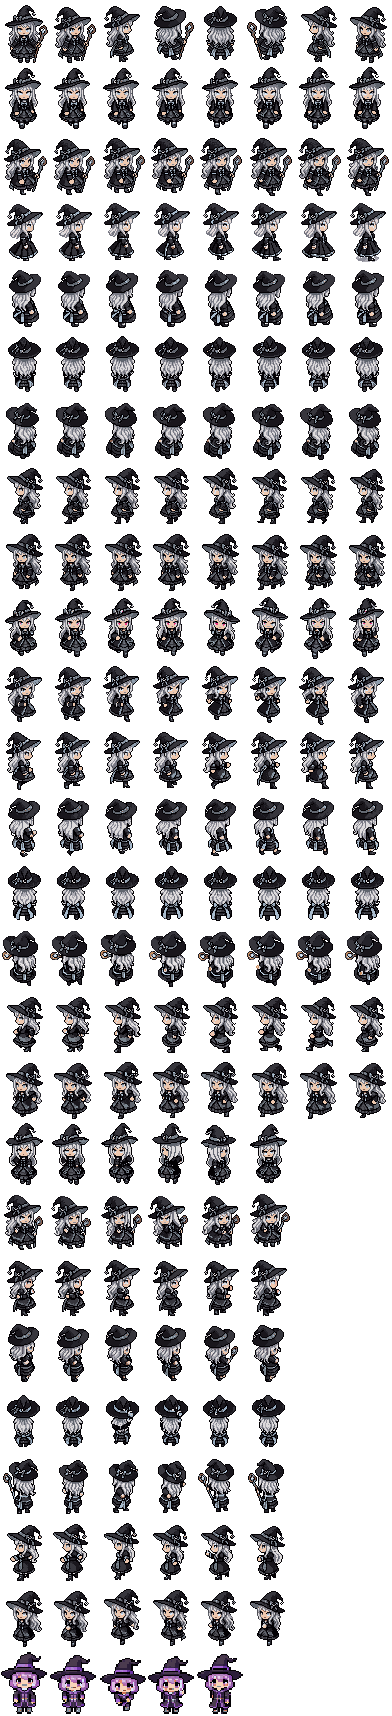
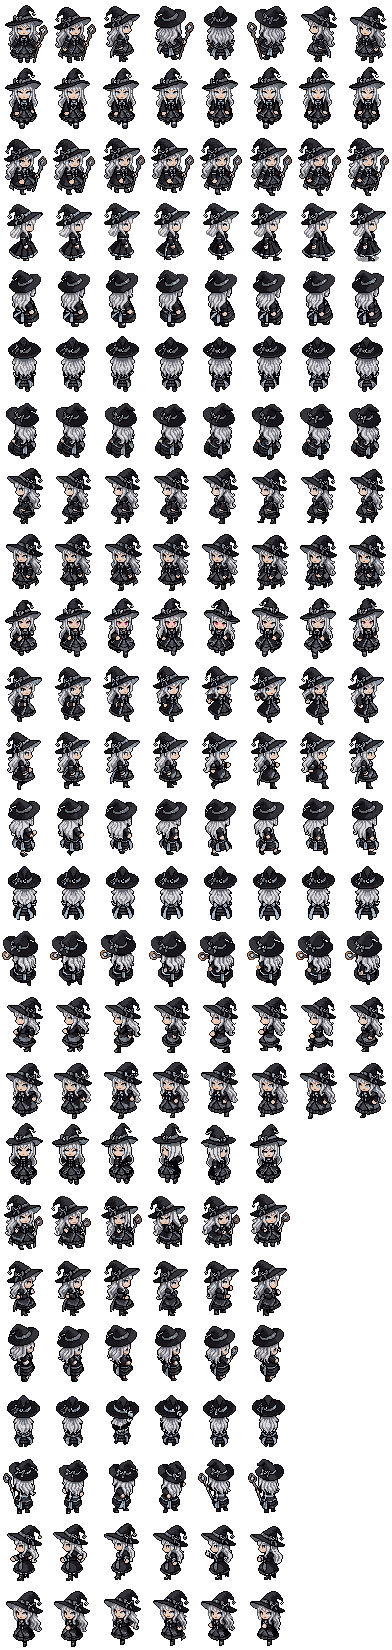
Use the eight-way action frames for gathering too
Folder (4) has no picking-up animation, only the fireball set, so gathering,
harvesting and planting borrow it the way watering already does. That empties
the last row of the previous witch out of the sheet -- it is 8 x 25 cells now,
all of it the current character.

tools/legacy_pose.png stays as the only surviving copy of her cast and crouch
frames; nothing reads it any more, so the extractor that produced it is gone.

diff --git a/assets/scripts/GatherTree.ts b/assets/scripts/GatherTree.ts
@@ -105,13 +105,15 @@ export class GatherTree extends Component {
 
     // ---- 採集特效 ----
 
-    /** 女巫彎腰採集 + 樹搖晃 + 星星 + 材料飄出來。 */
+    /** 女巫伸手採集 + 樹搖晃 + 星星 + 材料飄出來。 */
     private playFx(item: string, qty: number) {
-        // 女巫：彎腰伸手 → 捏起 → 起身舉起（面向這棵樹）
+        // 女巫：轉向這棵樹伸手（新圖八個方向都有；舊圖只有正面，靠 dirX 翻面）
         const anim = this.player?.getComponent(CharacterAnimator);
         if (anim) {
             const dirX = this.node.position.x - (this.player?.position.x ?? 0);
-            anim.playOneShot(GameArt.gatherFrames(), 0.9, dirX);
+            const dirY = this.node.position.y - (this.player?.position.y ?? 0);
+            const dir = CharacterAnimator.dirOf(dirX, dirY);
+            anim.playOneShot(GameArt.gatherFrames(dir), 0.9, dirX, false, dir);
         }
         // 樹：以樹根為軸左右擺（錨點是 (0.5,0)）
         tween(this.node)

diff --git a/assets/scripts/GardenRoom.ts b/assets/scripts/GardenRoom.ts
@@ -150,7 +150,8 @@ export class GardenRoom extends Component {
             if (got) {
                 Inventory.ensure()?.add(got.name, got.count);
                 Quests.record('gather', got.name, got.count);
-                anim?.playOneShot(GameArt.pickFrames(), 0.9, faceX, true);
+                const dir = this.dirTo(plot);
+                anim?.playOneShot(GameArt.pickFrames(dir), 0.9, faceX, true, dir);
                 plot.popup(`＋${got.name} ×${got.count}`);
             }
         } else {
@@ -192,7 +193,8 @@ export class GardenRoom extends Component {
         }
         const anim = this.player?.getComponent(CharacterAnimator);
         const faceX = this.player ? plot.node.position.x - this.player.position.x : 0;
-        anim?.playOneShot(GameArt.pickFrames(), 0.7, faceX, true);
+        const dir = this.dirTo(plot);
+        anim?.playOneShot(GameArt.pickFrames(dir), 0.7, faceX, true, dir);
         plot.popup(`種下 ${seed}`);
         plot.refresh();
     }

diff --git a/assets/scripts/data/outfits.ts b/assets/scripts/data/outfits.ts
@@ -1,7 +1,7 @@
 /**
  * 造型（換裝）「內容」資料。
  *
- * 一套造型 ＝ 一整張女巫圖集 `resources/witch8/<art>.png`（站姿/走路/施法/蹲下）
+ * 一套造型 ＝ 一整張女巫圖集 `resources/witch8/<art>.png`（站姿/走路/跑步/施法）
  * ＋ 一張 `<art>-sleep.png`。**不是把衣服疊成圖層** —— 帽子與披風本身就是角色輪廓，
  * 而且只有幾套完整造型，分層那種「多部位排列組合」的好處用不到。
  * 三套的圖是 tools/export_witch8.py 從預設那張改色生出來的（可重跑）。

diff --git a/assets/scripts/UpdatePanel.ts b/assets/scripts/UpdatePanel.ts
@@ -20,7 +20,7 @@ const UPDATE_DATE = '2026 / 08 / 07';
 /** 這次更新的內容，一行一條。 */
 const UPDATE_LINES = [
     '· 女巫換了新的人：黑袍緋紅緞邊、銀髮紅眼',
-    '· 按住 Shift 衝刺，跑步與施法澆水都有八個方向',
+    '· 按住 Shift 衝刺；跑步與採集施法等動作都有八個方向',
     '· 衣櫃四套改成緞邊配色：緋紅／苔綠／琥珀／霜白',
 ];
 

diff --git a/tools/export_witch8.py b/tools/export_witch8.py
@@ -11,21 +11,23 @@
   art-src/witch-v2/walk/rotations                 8 方向站姿
   art-src/witch-v2/walk/animations/Walking/<dir>  走路 8 方向 ×8 幀
   art-src/witch-v2/run/animations/Running/<dir>   跑步 8 方向 ×8 幀
-  art-src/witch-v2/cast/animations/Fireball/<dir> 施法 8 方向 ×6 幀（澆水也用這組）
-  tools/legacy_pose.png                           前一位女巫的蹲下 5 幀
-                                                  （新圖還沒做，先頂著；見下面 LEGACY 那段）
+  art-src/witch-v2/cast/animations/Fireball/<dir> 施法 8 方向 ×6 幀
+                                                  （**澆水／採集／摘花／種花全部共用這組** ——
+                                                    新角色沒有蹲下的圖，使用者指定就用這組）
 
 ⚠ 同一組動畫有時會匯出兩份方向（PixelLab 的重生成）：跑步的 north 取 `north-71d078af`
    （`north-f030d599` 整組是疊影壞圖）、施法的 north-west 取 `north-west-969deef6`
    （`north-west-fe5a5dbc` 每幀的帽子與身體都在跳）。
 
 輸出（resources/witch8/）
-  base.png    8 欄 × 26 列，格子大小一致：
+  base.png    8 欄 × 25 列，格子大小一致：
                 列 0       = 站姿，欄＝方向（south, SE, E, NE, N, NW, W, SW）
                 列 1..8    = 走路，列 1+d ＝方向 d，欄＝幀
                 列 9..16   = 跑步，列 9+d ＝方向 d，欄＝幀
                 列 17..24  = 施法，列 17+d ＝方向 d，欄＝幀（0..5）
-                列 25      = 蹲下 5 幀（欄 0..4）  ← 還是前一位女巫
+
+  `tools/legacy_pose.png` 是前一位（紫袍）女巫的施法＋蹲下 11 幀，**已經沒有人用了**，
+  留著純粹是因為她的來源資料夾早就被刪掉，那是僅存的一份。
   green/brown/ivory.png    換裝造型（緋紅緞邊改色版）
 
   睡覺立繪 `sleep.png` / `*-sleep.png` **這支腳本不再產生**：新角色沒有躺床的圖，
@@ -51,8 +53,8 @@ CAST_DIRS = dict((d, d) for d in DIRS)
 CAST_DIRS["north-west"] = "north-west-969deef6"  # 另一份 north-west-fe5a5dbc 每幀都在跳
 
 COLS = 8
-ROW_WALK, ROW_RUN, ROW_CAST, ROW_CROUCH = 1, 9, 17, 25
-ROWS = 26
+ROW_WALK, ROW_RUN, ROW_CAST = 1, 9, 17
+ROWS = 25
 PAD = 1
 
 def load(p):
@@ -82,43 +84,10 @@ foot = max(b[3] for b in boxes) - y0
 body = foot - (min(b[1] for b in boxes) - y0)
 print(f"格子 {CW}x{CH}（裁 {x0},{y0},{x1},{y1}）身高 {body}px、腳底 y={foot}（離底部 {CH-foot}px）")
 
-# ── 前一位女巫的蹲下（暫用）──
-# 新角色還沒有蹲下（採集／摘花／種花）的圖。這段動畫的來源資料夾已經被刪掉，只剩
-# legacy_pose.png，所以從那裡讀、**等比放大到跟新角色一樣高**再置中貼進格子裡
-# （不放大的話，一按 E 採集人就縮水一截）。新圖做好後，把這段連同 legacy_pose.png
-# 一起刪掉。（legacy_pose.png 的列 0 是前一位女巫的施法，現在用不到了。）
-LEGACY = os.path.join(TOOLS, "legacy_pose.png")
-legacy_crouch = []
-if os.path.exists(LEGACY):
-    strip = load(LEGACY)
-    lw, lh = strip.width // COLS, strip.height // 2
-    cells = [strip.crop((c * lw, r * lh, (c + 1) * lw, (r + 1) * lh))
-             for r in range(2) for c in range(COLS)]
-    lb = [im.getbbox() for im in cells if im.getbbox()]
-    ux0, uy0 = min(b[0] for b in lb), min(b[1] for b in lb)
-    ux1, uy1 = max(b[2] for b in lb), max(b[3] for b in lb)
-    k = body / (uy1 - uy0)                       # 放大倍率：舊身高 → 新身高
-    print(f"舊姿勢格子 {lw}x{lh}、身高 {uy1-uy0}px → 放大 {k:.2f} 倍")
-
-    def fit(im):
-        """把舊格子裁到內容、等比放大、置中且腳底對齊新格子。"""
-        crop = im.crop((ux0, uy0, ux1, uy1))
-        w, h = max(1, round(crop.width * k)), max(1, round(crop.height * k))
-        crop = crop.resize((w, h), Image.NEAREST)
-        cell = Image.new("RGBA", (CW, CH), (0, 0, 0, 0))
-        cell.paste(crop, ((CW - w) // 2, foot - h))
-        return cell
-
-    legacy_crouch = [fit(cells[COLS + c]) for c in range(5)]     # 列 1 的前 5 格
-else:
-    print("（沒有 legacy_pose.png，蹲下留白）")
-
 def build_sheet():
     sh = Image.new("RGBA", (COLS * CW, ROWS * CH), (0, 0, 0, 0))
-    def put_raw(im, c, r):                  # 已經是格子大小
-        sh.paste(im, (c * CW, r * CH))
     def put(im, c, r):                      # 116x116 來源，用共同裁切框裁
-        put_raw(im.crop((x0, y0, x1, y1)), c, r)
+        sh.paste(im.crop((x0, y0, x1, y1)), (c * CW, r * CH))
     for i, im in enumerate(rot):
         put(im, i, 0)
     for d, v in enumerate(walk):
@@ -130,8 +99,6 @@ def build_sheet():
     for d, v in enumerate(cast):
         for c, im in enumerate(v):
             put(im, c, ROW_CAST + d)
-    for c, im in enumerate(legacy_crouch):
-        put_raw(im, c, ROW_CROUCH)
     return sh
 
 base = build_sheet()
